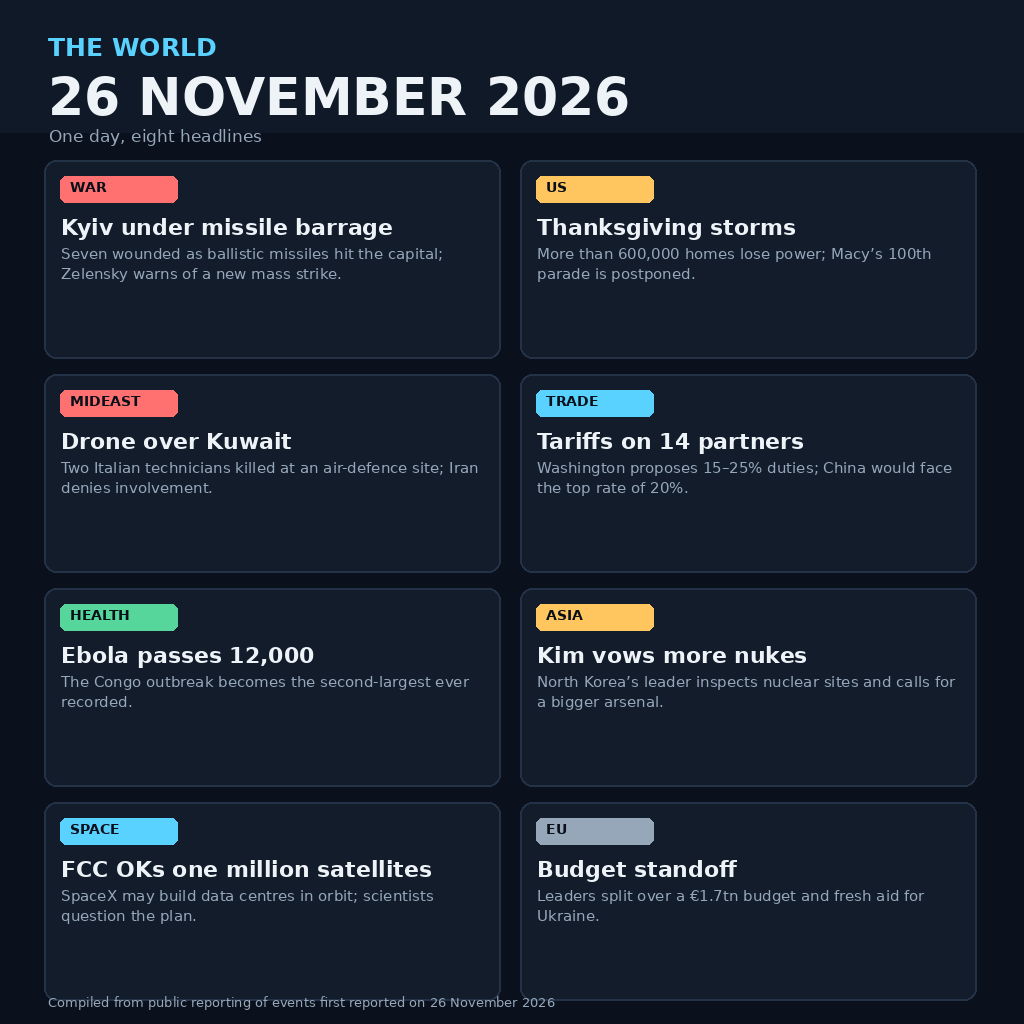
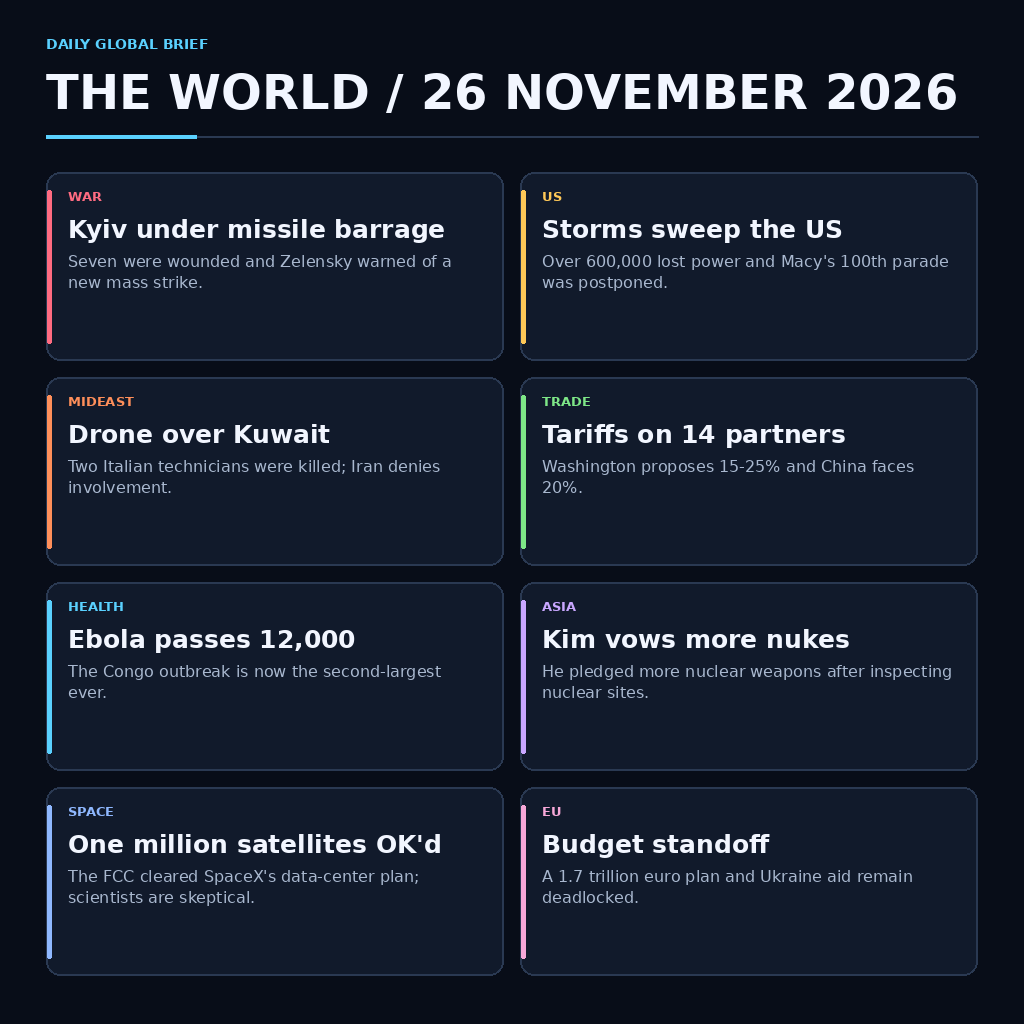
poster and entrypoint authored in recorded session

Changed region(s): [[0.0312, 0.0312, 0.9688, 1.0], [0.8125, 0.0625, 0.9375, 0.125]]

diff --git a/main.ts b/main.ts
@@ -2,6 +2,7 @@ import { copyFileSync, mkdirSync } from 'node:fs';
 import { join } from 'node:path';
 
 // The committed poster is the entry; the grader reads the copied bytes.
+// The poster is rendered by render.py and copied here at run time.
 const out = process.env.MAKEFUN_OUTPUT_DIR ?? '/output';
 mkdirSync(out, { recursive: true });
 copyFileSync(new URL('./entry.png', import.meta.url), join(out, 'entry.png'));

diff --git a/render.py b/render.py
@@ -1,75 +1,138 @@
-#!/usr/bin/env python3
-"""Render a single 1024x1024 news poster for 26 November 2026."""
+"""Render the 26 November 2026 world-news poster as entry.png.
+
+Self-contained: uses only Pillow and the DejaVu fonts shipped with the system.
+"""
+
+from pathlib import Path
+
 from PIL import Image, ImageDraw, ImageFont
 
-W = H = 1024
-BG = (10, 17, 28)
-PANEL = (18, 28, 43)
-INK = (238, 243, 248)
-MUTED = (150, 167, 186)
-ACCENT = (90, 210, 255)
-GOLD = (255, 197, 94)
-RED = (255, 112, 112)
-GREEN = (86, 214, 154)
-F = '/usr/share/fonts/truetype/dejavu/DejaVuSans.ttf'
-FB = '/usr/share/fonts/truetype/dejavu/DejaVuSans-Bold.ttf'
+ROOT = Path(__file__).resolve().parent
+FONT_DIR = Path("/usr/share/fonts/truetype/dejavu")
 
-def font(size, bold=False):
-    return ImageFont.truetype(FB if bold else F, size)
+WIDTH = HEIGHT = 1024
+MARGIN = 46
+GAP = 16
+GRID_TOP = 172
+CARD_W = (WIDTH - 2 * MARGIN - GAP) // 2
+CARD_H = (HEIGHT - GRID_TOP - 46 - 3 * GAP) // 4
 
-def wrap(draw, text, fnt, width):
-    words, lines, cur = text.split(), [], ''
-    for word in words:
-        trial = f'{cur} {word}'.strip()
-        if draw.textlength(trial, font=fnt) <= width:
-            cur = trial
-        else:
-            if cur:
-                lines.append(cur)
-            cur = word
-    if cur:
-        lines.append(cur)
-    return lines
+CANVAS = "#080d18"
+CARD_BG = "#111a2b"
+CARD_EDGE = "#2a3952"
+INK = "#f2f6ff"
+MUTED = "#a9b8cf"
+ACCENT = "#5ad1ff"
 
-NEWS = [
-    ('WAR', RED, 'Kyiv under missile barrage', 'Seven wounded as ballistic missiles hit the capital; Zelensky warns of a new mass strike.'),
-    ('US', GOLD, 'Thanksgiving storms', 'More than 600,000 homes lose power; Macy’s 100th parade is postponed.'),
-    ('MIDEAST', RED, 'Drone over Kuwait', 'Two Italian technicians killed at an air-defence site; Iran denies involvement.'),
-    ('TRADE', ACCENT, 'Tariffs on 14 partners', 'Washington proposes 15–25% duties; China would face the top rate of 20%.'),
-    ('HEALTH', GREEN, 'Ebola passes 12,000', 'The Congo outbreak becomes the second-largest ever recorded.'),
-    ('ASIA', GOLD, 'Kim vows more nukes', 'North Korea’s leader inspects nuclear sites and calls for a bigger arsenal.'),
-    ('SPACE', ACCENT, 'FCC OKs one million satellites', 'SpaceX may build data centres in orbit; scientists question the plan.'),
-    ('EU', MUTED, 'Budget standoff', 'Leaders split over a €1.7tn budget and fresh aid for Ukraine.'),
+TITLE = "THE WORLD / 26 NOVEMBER 2026"
+
+# tag, headline, one-sentence detail, accent colour
+STORIES = [
+    ("WAR", "Kyiv under missile barrage",
+     "Seven were wounded and Zelensky warned of a new mass strike.", "#ff6b81"),
+    ("US", "Storms sweep the US",
+     "Over 600,000 lost power and Macy's 100th parade was postponed.", "#ffc857"),
+    ("MIDEAST", "Drone over Kuwait",
+     "Two Italian technicians were killed; Iran denies involvement.", "#ff8f5a"),
+    ("TRADE", "Tariffs on 14 partners",
+     "Washington proposes 15-25% and China faces 20%.", "#7ee787"),
+    ("HEALTH", "Ebola passes 12,000",
+     "The Congo outbreak is now the second-largest ever.", "#5ad1ff"),
+    ("ASIA", "Kim vows more nukes",
+     "He pledged more nuclear weapons after inspecting nuclear sites.", "#c9a7ff"),
+    ("SPACE", "One million satellites OK'd",
+     "The FCC cleared SpaceX's data-center plan; scientists are skeptical.", "#8fb8ff"),
+    ("EU", "Budget standoff",
+     "A 1.7 trillion euro plan and Ukraine aid remain deadlocked.", "#f7a8d8"),
 ]
 
-img = Image.new('RGB', (W, H), BG)
-d = ImageDraw.Draw(img)
-d.rectangle([0, 0, W, 132], fill=(15, 25, 39))
-d.text((48, 32), 'THE WORLD', font=font(25, True), fill=ACCENT)
-d.text((48, 66), '26 NOVEMBER 2026', font=font(52, True), fill=INK)
-d.text((49, 126), 'One day, eight headlines', font=font(17), fill=MUTED)
 
-cols, rows = 2, 4
-pw, ph = 456, 198
-gx, gy = 20, 16
-x0, y0 = 44, 160
-for i, (tag, color, title, detail) in enumerate(NEWS):
-    col, row = i % cols, i // cols
-    x = x0 + col * (pw + gx)
-    y = y0 + row * (ph + gy)
-    d.rounded_rectangle([x, y, x + pw, y + ph], radius=12, fill=PANEL, outline=(35, 50, 70), width=2)
-    d.rounded_rectangle([x + 16, y + 16, x + 133, y + 42], radius=6, fill=color)
-    d.text((x + 26, y + 19), tag, font=font(14, True), fill=(9, 16, 26))
-    ty = y + 54
-    for line in wrap(d, title, font(22, True), pw - 34):
-        d.text((x + 17, ty), line, font=font(22, True), fill=INK)
-        ty += 27
-    ty += 4
-    for line in wrap(d, detail, font(15), pw - 34):
-        d.text((x + 17, ty), line, font=font(15), fill=MUTED)
-        ty += 20
+def font(size: int, bold: bool = False) -> ImageFont.FreeTypeFont:
+    name = "DejaVuSans-Bold.ttf" if bold else "DejaVuSans.ttf"
+    candidates = [FONT_DIR / name, Path("/usr/share/fonts/dejavu") / name, Path(name)]
+    for path in candidates:
+        if path.is_file():
+            return ImageFont.truetype(str(path), size)
+    return ImageFont.truetype(name, size)
 
-d.text((48, H - 30), 'Compiled from public reporting of events first reported on 26 November 2026',
-       font=font(13), fill=MUTED)
-img.save('/home/hatch/workspace/makefun/news-image/entry.png', 'PNG', optimize=True)
-print('wrote entry.png', img.size)
+
+def wrap(text: str, face: ImageFont.FreeTypeFont, max_width: float,
+         draw: ImageDraw.ImageDraw) -> list[str]:
+    """Greedy word wrap, with a character-level fallback for overlong words."""
+    lines: list[str] = []
+    current = ""
+    for word in text.split():
+        candidate = f"{current} {word}".strip()
+        if draw.textlength(candidate, font=face) <= max_width:
+            current = candidate
+            continue
+        if current:
+            lines.append(current)
+            current = ""
+        if draw.textlength(word, font=face) <= max_width:
+            current = word
+            continue
+        chunk = ""
+        for char in word:
+            if chunk and draw.textlength(chunk + char, font=face) > max_width:
+                lines.append(chunk)
+                chunk = ""
+            chunk += char
+        current = chunk
+    if current:
+        lines.append(current)
+    return lines
+
+
+def main() -> None:
+    image = Image.new("RGB", (WIDTH, HEIGHT), CANVAS)
+    draw = ImageDraw.Draw(image)
+
+    # Masthead.
+    draw.text((MARGIN, 36), "DAILY GLOBAL BRIEF", font=font(14, True), fill=ACCENT)
+    title_size = 48
+    while title_size > 24 and draw.textlength(TITLE, font=font(title_size, True)) > WIDTH - 2 * MARGIN:
+        title_size -= 1
+    draw.text((MARGIN, 64), TITLE, font=font(title_size, True), fill=INK)
+    draw.line([(MARGIN, 136), (WIDTH - MARGIN, 136)], fill=CARD_EDGE, width=2)
+    draw.line([(MARGIN, 136), (MARGIN + 150, 136)], fill=ACCENT, width=4)
+
+    # Eight cards, two columns by four rows.
+    for index, (tag, headline, detail, colour) in enumerate(STORIES):
+        col, row = index % 2, index // 2
+        x = MARGIN + col * (CARD_W + GAP)
+        y = GRID_TOP + row * (CARD_H + GAP)
+
+        draw.rounded_rectangle(
+            [x, y, x + CARD_W - 1, y + CARD_H - 1],
+            radius=14, fill=CARD_BG, outline=CARD_EDGE, width=2,
+        )
+        draw.rounded_rectangle(
+            [x + 1, y + 18, x + 5, y + CARD_H - 18],
+            radius=2, fill=colour,
+        )
+
+        tx = x + 22
+        tw = CARD_W - 44
+
+        draw.text((tx, y + 16), tag, font=font(13, True), fill=colour)
+
+        head_face = font(25, True)
+        cursor = y + 42
+        for line in wrap(headline, head_face, tw, draw)[:2]:
+            draw.text((tx, cursor), line, font=head_face, fill=INK)
+            cursor += 30
+        cursor += 8
+
+        detail_face = font(16)
+        for line in wrap(detail, detail_face, tw, draw)[:3]:
+            draw.text((tx, cursor), line, font=detail_face, fill=MUTED)
+            cursor += 21
+
+    target = ROOT / "entry.png"
+    image.save(target)
+    print(f"wrote {target} ({WIDTH}x{HEIGHT})")
+
+
+if __name__ == "__main__":
+    main()

diff --git a/README.md b/README.md
@@ -1,7 +1,20 @@
-[![make.fun · News Image 26 Nov 2026](https://make.fun/badge/news-image-20261126.svg)](https://make.fun/bounty/news-image-20261126)
-[![rank](https://make.fun/badge/news-image-20261126/mohere747-ui/makefun-news-image/rank.svg)](https://make.fun/bounty/news-image-20261126/leaderboard)
-[![reward](https://make.fun/badge/news-image-20261126/mohere747-ui/makefun-news-image/reward.svg)](https://make.fun/bounty/news-image-20261126)
+[![make.fun challenge](https://img.shields.io/badge/make.fun-news--image--20261126-7C3AED.svg)](https://make.fun/c/news-image-20261126)
+[![GitHub repository](https://img.shields.io/badge/github-mohere747--ui%2Fmakefun--news--image-181717.svg?logo=github&logoColor=white)](https://github.com/mohere747-ui/makefun-news-image)
 
-# The World · 26 November 2026
+A single-file news poster for the `news-image-20261126` make.fun challenge. `render.py` paints a 1024x1024 dark-themed brief of eight world stories from 26 November 2026 into `entry.png`, and `main.ts` copies that committed PNG into the grader's output directory at run time, so the evaluated bytes are exactly the rendered poster.
 
-An illustrated one-page summary of the day's news. `main.ts` copies the committed `entry.png` to `/output/entry.png`.
+## Run
+
+Render the poster (requires Pillow and DejaVu fonts):
+
+```sh
+python3 render.py
+```
+
+Copy the poster into the output directory:
+
+```sh
+mkdir -p out && MAKEFUN_OUTPUT_DIR=$PWD/out node main.ts
+```
+
+The second command writes `out/entry.png`. Without `MAKEFUN_OUTPUT_DIR`, `main.ts` uses `/output`.
